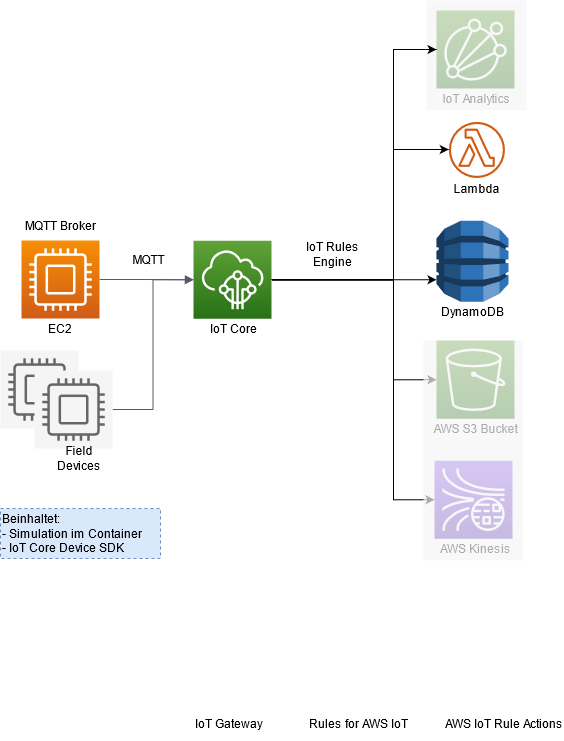
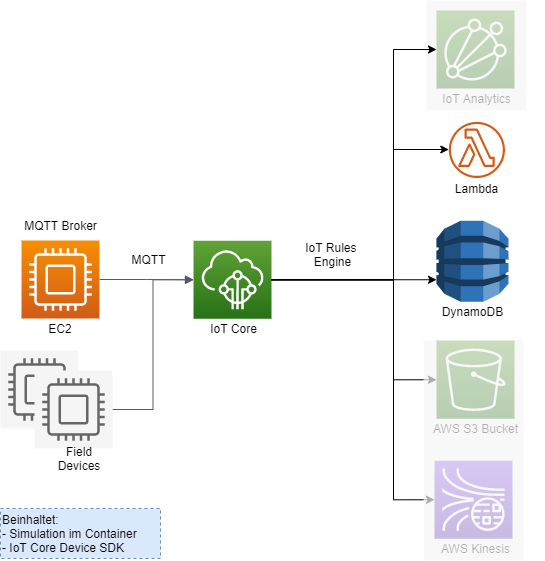
add readme and architecture

diff --git a/README.md b/README.md
@@ -1,5 +1,33 @@
 # BPA-factory-integration-and-simulation
 
 ## Quick Start
+Auf dem System muss Docker sowie Docker-Compose installiert sein.
+
 1. `docker-compose build`
 2. `docker-compose up (-d for detached)`
+## Zielstellung
+Zielstellung des Projektes ist die visuelle Darstellung der Overall Equipment Effectiveness (OEE) von Maschinen durch Anwendung von Services in AWS. Dafür wurde der Kurs in drei Gruppen unterteilt, wobei jede Gruppe eine einzelne Zielstellung bearbeitet. Die einzelnen Themen sind:
+1. Factory Integration & Simulation
+2. Data Processing & Analytics
+3. UI & external Connectors
+
+Konkret soll Gruppe 1 Field Devices simulieren und die Nachrichten dieser zur weiterern Verarbeitung in AWS Verfügbar machen. Gruppe 2 soll diese Nachrichten verarbeiten, die zur Berechnung der OEE nötigen Werte aggregieren und in einer konsumierbaren Form für Gruppe 3 bereitstellen. Gruppe 3 hat die Aufgabe den Verlauf der OEE und gegebenenfalls weitere Kennzahlen visuell darzustellen und gleichzeitig für einen externen Zugang zu sorgen.
+
+## Architektur und Schnittstellen
+![Architecture](drawings/BPA_Architecture.png)
+
+
+## Beschreibung entwickelter Artefakte und verwendeter Cloud Services
+### Field Device
+Die simulierte Maschine ist eine Getränkeabfüllanlage. Diese wird mithilfe eines Python Skripts simuliert. Die Containerisierung ermöglicht die einfache Verwendung der Simulation auf neuen Servern und soll gleichzeitig dafür sorgen, das mehrere Simulationen auf einem oder auf verschiedenen Servern erzeugt werden können.
+
+Um eine sinnvolle OEE zu berechnen hat die Maschine eine Plabelegungszeit und Planmenge hinterlegt. Die Flasche sendet Informationen über die Abfüllung neuer Flaschen, der Aussortierung von Flaschen und dem Stop der Maschine. Aufgrund zufälliger Ereignisse kommt es gelegentlich zu Ausfällen oder zur Aussortierung von Flaschen, was für eine geringere Planmenge sorgt.
+
+**Datenmodell:**
+
+### IoT Core
+
+### IoT Rules Engine
+
+### DynamoDB
+
